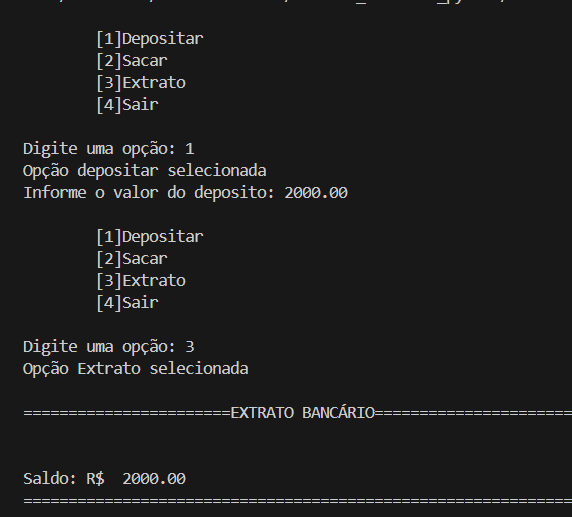
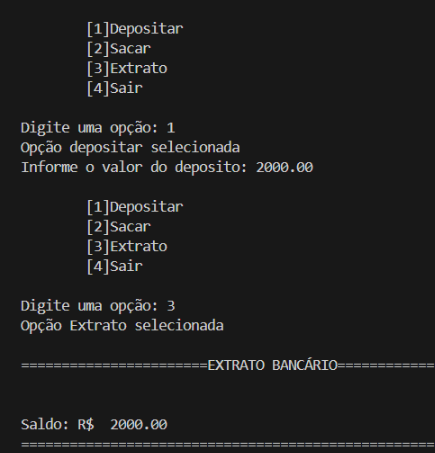
substituindo imagem

diff --git a/README.md b/README.md
@@ -15,7 +15,7 @@
 - A operação de extrato deve listar todos os depositos e saques realizados na conta"
 
 
-![alt text](img/image-1.png)
+![alt text](image.png)
 ![alt text](img/image.png)
 
 
